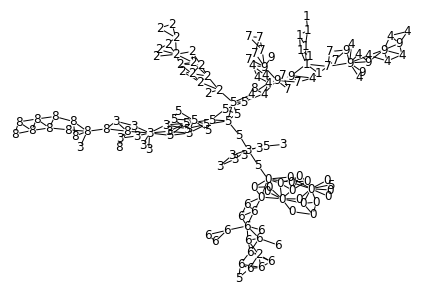
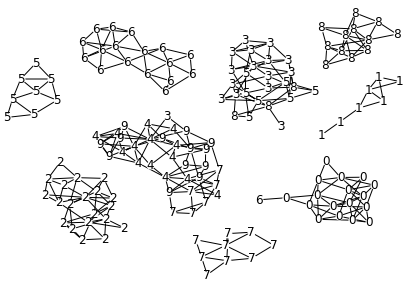
Increased max bridge neighbors to 6. Added Iris screenshot

Changed region(s): [[0.0, 0.0279, 0.9855, 0.9756], [0.087, 0.5575, 0.3188, 0.8641], [0.7536, 0.2509, 0.9855, 0.4739]]

diff --git a/minigng.py b/minigng.py
@@ -383,7 +383,7 @@ class MiniGNG:
             an = a.neighbors
             bn = b.neighbors
 
-            return len(an & xn) < 2 and len(bn & xn) < 2 and len(xn) <= 5
+            return len(an & xn) < 2 and len(bn & xn) < 2 and len(xn) <= 6
 
         elif n_bridges == 0:
             has_min_size = (

diff --git a/README.md b/README.md
@@ -4,9 +4,9 @@ A simple version of the Growing Neural Gas algorithm by [Firtzke (1995)](http://
 ## Requirements
 ### Mingng
 - Numpy
+- Scipy
 
 ### Example
-- Scipy
 - Pandas
 - Matplotlib
 - Networkx
@@ -28,11 +28,21 @@ gng.save_gml('iris.gml')
 
 ## Screenshots
 
-MNIST dataset.
+[Iris](https://archive.ics.uci.edu/ml/datasets/Iris) dataset
+```python
+gng = MiniGNG(max_units=40, n_epochs=30)
+```
+![alt text](img/iris.png)
 
+[MNIST](http://yann.lecun.com/exdb/mnist/) dataset.
+```python
+gng = MiniGNG(max_units=150, n_epochs=25, max_edge_age=50, sample=.2, untangle=True, untangle_net_size=5)
+```
 ![alt text](img/mnist.png)
 
 
-Fashion MNIST dataset.
-
+[Fashion MNIST](https://github.com/zalandoresearch/fashion-mnist) dataset.
+```python
+gng = MiniGNG(max_units=150, n_epochs=20, max_edge_age=30, sample=.3, untangle=True, untangle_net_size=0)
+```
 ![alt text](img/fashion_mnist.png)
